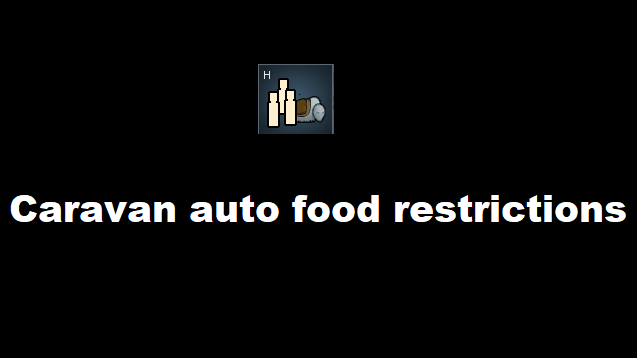
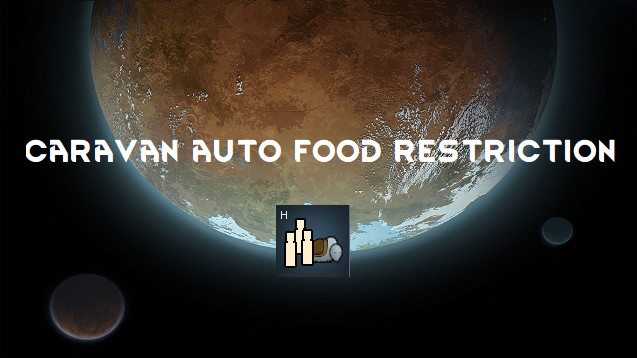
added new Preview.png and remove caravan_id in dictionary key (useless and caravan splitting bug)

diff --git a/Source/CaravanAutoFoodRestrictions/CaravanAutoFoodRestriction.cs b/Source/CaravanAutoFoodRestrictions/CaravanAutoFoodRestriction.cs
@@ -17,9 +17,9 @@ namespace CaravanAutoFoodRestrictions
         {
             Log.Message("CaravanAutoFoodRestrictions StartUp");
             var harmony = new Harmony("com.caravan.auto.food.restrictions.patch");
-            Log.Message("CaravanAutoFoodRestrictions Harmony instance loaded");
+            // Log.Message("CaravanAutoFoodRestrictions Harmony instance loaded");
             harmony.PatchAll();  // todo patch only created methods
-            Log.Message("CaravanAutoFoodRestrictions Harmony PatchAll called");
+            // Log.Message("CaravanAutoFoodRestrictions Harmony PatchAll called");
         }
         
         [HarmonyPatch(typeof(CaravanMaker))]
@@ -28,15 +28,15 @@ namespace CaravanAutoFoodRestrictions
         {
             static void Postfix(ref Caravan __result) 
             {
-                Log.Message("CaravanAutoFoodRestrictions Harmony CaravanMaker MakeCaravan");
-                Log.Message("CaravanAutoFoodRestrictions Number of pawns in caravan " + __result.pawns.Count);
+                // Log.Message("CaravanAutoFoodRestrictions Harmony CaravanMaker MakeCaravan");
+                // Log.Message("CaravanAutoFoodRestrictions Number of pawns in caravan " + __result.pawns.Count);
                 
                 var caravanAutoFoodRestrictionsData = Find.World.GetComponent<CaravanAutoFoodRestrictionsData>();
                 
                 if (caravanAutoFoodRestrictionsData.RetainedCaravanData ==  null)
                 {
                     caravanAutoFoodRestrictionsData.RetainedCaravanData = new Dictionary<string, string>();
-                    Log.Message("CaravanAutoFoodRestrictions loaded setting RetainedCaravanData empty");
+                    // Log.Message("CaravanAutoFoodRestrictions loaded setting RetainedCaravanData empty");
                 }
                 
                 var pawnFoodRestrictionLabel = caravanAutoFoodRestrictionsData.PawnFoodRestrictionLabel;
@@ -47,14 +47,14 @@ namespace CaravanAutoFoodRestrictions
                 }
 
                 var pawnFoodRestriction = Current.Game.foodRestrictionDatabase.AllFoodRestrictions.FirstOrFallback(restriction => restriction.label == pawnFoodRestrictionLabel, Current.Game.foodRestrictionDatabase.DefaultFoodRestriction());
-                Log.Message("CaravanAutoFoodRestrictions loaded setting pawnFoodRestrictionLabel " + pawnFoodRestrictionLabel);
+                // Log.Message("CaravanAutoFoodRestrictions loaded setting pawnFoodRestrictionLabel " + pawnFoodRestrictionLabel);
                 
                 foreach (var pawn in __result.pawns)
                 {
                     if (!pawn.RaceProps.Humanlike) continue;
-                    caravanAutoFoodRestrictionsData.RetainedCaravanData[__result.GetUniqueLoadID()+"_"+pawn.GetUniqueLoadID()] = pawn.foodRestriction.CurrentFoodRestriction.label;
+                    caravanAutoFoodRestrictionsData.RetainedCaravanData[pawn.GetUniqueLoadID()] = pawn.foodRestriction.CurrentFoodRestriction.label;
                     
-                    Log.Message("CaravanAutoFoodRestrictions pawn " + pawn.Name + " set food restriction from " + pawn.foodRestriction.CurrentFoodRestriction.label + " to " +  pawnFoodRestriction.label);
+                    // Log.Message("CaravanAutoFoodRestrictions pawn " + pawn.Name + " set food restriction from " + pawn.foodRestriction.CurrentFoodRestriction.label + " to " +  pawnFoodRestriction.label);
                     pawn.foodRestriction.CurrentFoodRestriction = pawnFoodRestriction;
                 }
             }
@@ -66,7 +66,7 @@ namespace CaravanAutoFoodRestrictions
         {
             static void Prefix(Caravan caravan, ref MapParent ___mapParent) 
             {
-                Log.Message("CaravanAutoFoodRestrictions Harmony CaravanArrivalAction_Enter Arrived");
+                // Log.Message("CaravanAutoFoodRestrictions Harmony CaravanArrivalAction_Enter Arrived");
                 
                 Map map = ___mapParent.Map;
                 if (map == null)
@@ -77,26 +77,26 @@ namespace CaravanAutoFoodRestrictions
 
                 if (map.IsPlayerHome)
                 {
-                    Log.Message("CaravanAutoFoodRestrictions Harmony CaravanArrivalAction_Enter caravan home");
+                    // Log.Message("CaravanAutoFoodRestrictions Harmony CaravanArrivalAction_Enter caravan home");
 
                     foreach (var pawn in caravan.pawns)
                     {
-                        if(caravanAutoFoodRestrictionsData.RetainedCaravanData.TryGetValue(caravan.GetUniqueLoadID()+"_"+pawn.GetUniqueLoadID(), out var pawnFoodRestrictionLabelSaved))
+                        if(caravanAutoFoodRestrictionsData.RetainedCaravanData.TryGetValue(pawn.GetUniqueLoadID(), out var pawnFoodRestrictionLabelSaved))
                         {
-                            Log.Message("CaravanAutoFoodRestrictions Harmony CaravanArrivalAction_Enter value found " + pawnFoodRestrictionLabelSaved);
+                            // Log.Message("CaravanAutoFoodRestrictions Harmony CaravanArrivalAction_Enter value found " + pawnFoodRestrictionLabelSaved);
                             pawn.foodRestriction.CurrentFoodRestriction = Current.Game.foodRestrictionDatabase.AllFoodRestrictions.FirstOrFallback(restriction => restriction.label == pawnFoodRestrictionLabelSaved, Current.Game.foodRestrictionDatabase.DefaultFoodRestriction());
-                            caravanAutoFoodRestrictionsData.RetainedCaravanData.Remove(caravan.GetUniqueLoadID()+"_"+pawn.GetUniqueLoadID());
+                            caravanAutoFoodRestrictionsData.RetainedCaravanData.Remove(pawn.GetUniqueLoadID());
                         }
-                        else
-                        {
-                            Log.Message("CaravanAutoFoodRestrictions Harmony CaravanArrivalAction_Enter value not found " + caravan.GetUniqueLoadID()+"_"+pawn.GetUniqueLoadID());
-                        }
+                        // else
+                        // {
+                        //     Log.Message("CaravanAutoFoodRestrictions Harmony CaravanArrivalAction_Enter value not found " + pawn.GetUniqueLoadID());
+                        // }
                     }
                 }
-                else
-                {
-                    Log.Message("CaravanAutoFoodRestrictions Harmony CaravanArrivalAction_Enter caravan is not home");
-                }
+                // else
+                // {
+                //     Log.Message("CaravanAutoFoodRestrictions Harmony CaravanArrivalAction_Enter caravan is not home");
+                // }
             }
         }
         
@@ -132,7 +132,7 @@ namespace CaravanAutoFoodRestrictions
             if (Current.Game != null)
             {
                 var labelFoodRestrictions = Current.Game.foodRestrictionDatabase.AllFoodRestrictions.Select(foodRestriction => foodRestriction.label).ToArray();
-                listingStandard.AddLabeledRadioList("Pawn Food Restriction", labelFoodRestrictions,ref Find.World.GetComponent<CaravanAutoFoodRestrictionsData>().PawnFoodRestrictionLabel);
+                listingStandard.AddLabeledRadioList("Default Caravan Food Restriction", labelFoodRestrictions,ref Find.World.GetComponent<CaravanAutoFoodRestrictionsData>().PawnFoodRestrictionLabel);
             }
             else
             {
